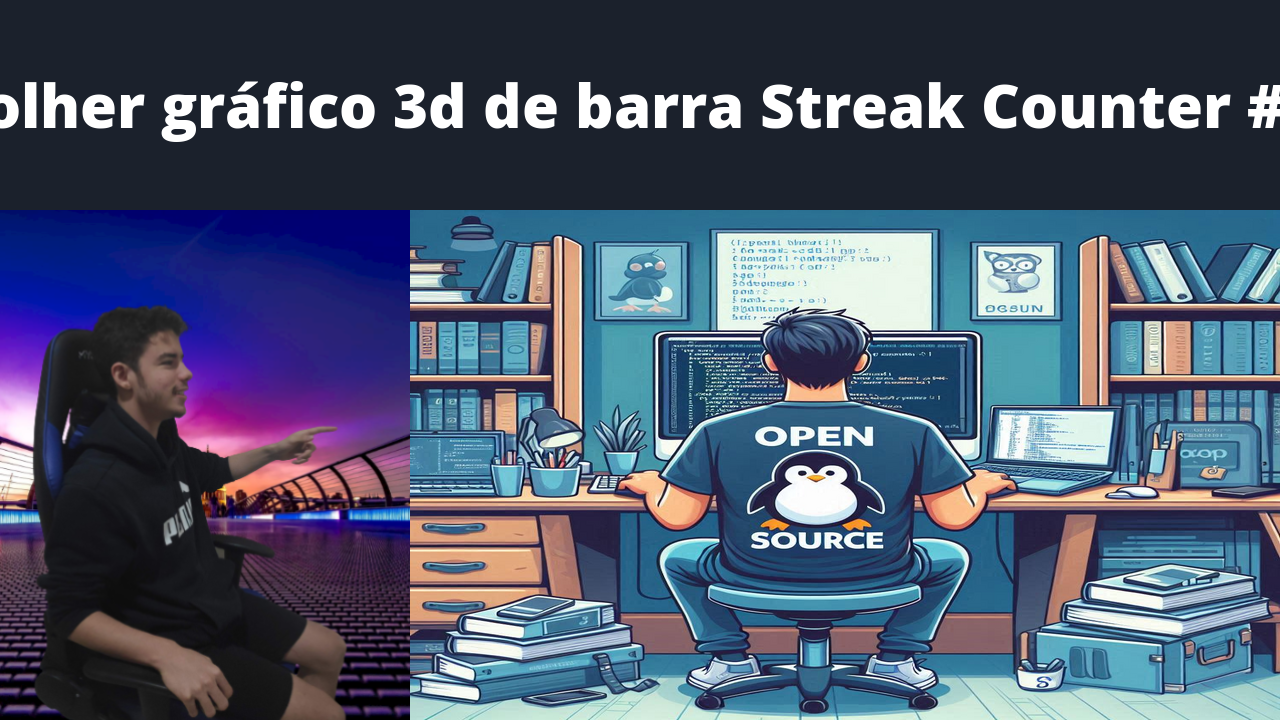
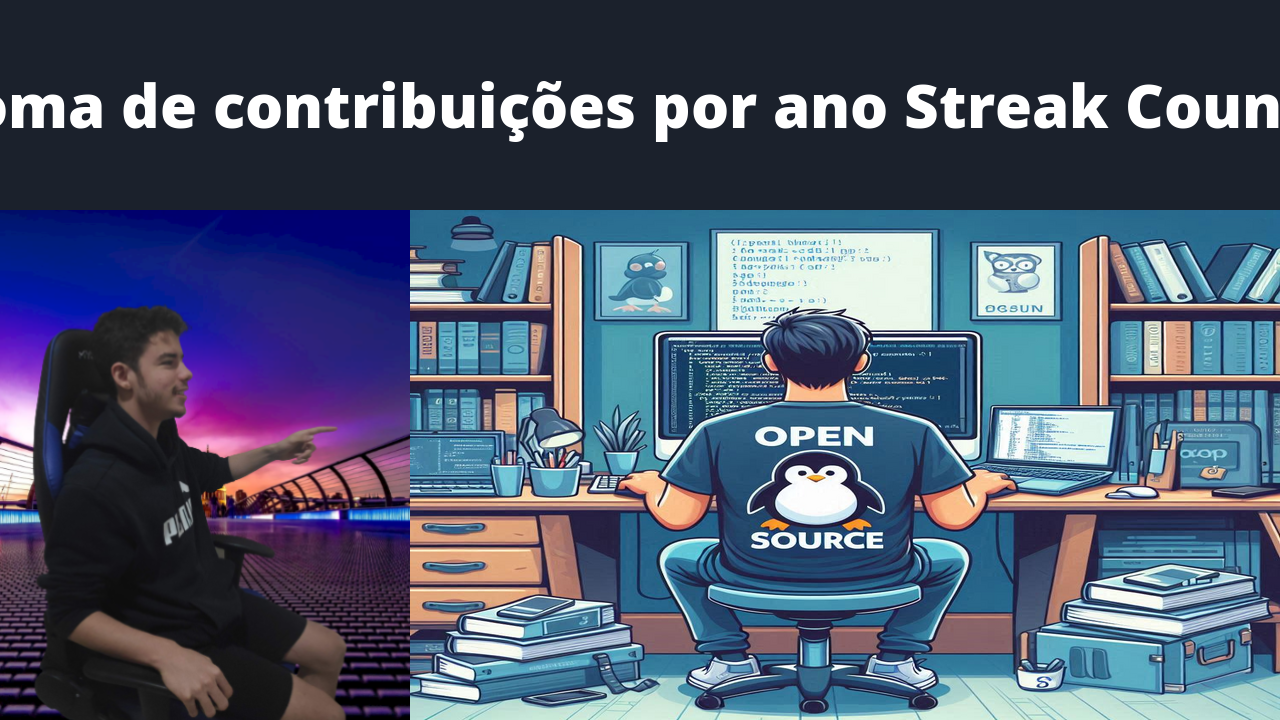
chore: add title refactor: remove verbosity

Changed region(s): [[0.0, 0.0917, 1.0, 0.2139]]

diff --git a/out/titles/Open Source.md b/out/titles/Open Source.md
@@ -112,8 +112,8 @@
 [video](https://youtu.be/QyUY_dS4Z4E)
 ## Criar arquivo informações de commit reminder actions #57
 [video](https://youtu.be/IHcmdDBSGZk)
-
-
+## Salvar arquivo no git reminder actions #58
+[video](https://youtu.be/0PfLznJBwAk)
 
 
 
@@ -806,3 +806,5 @@
 [video](https://youtu.be/WnpNzKrCt_g)
 ## Vídeo não encontrado streamLive #404
 [video](https://youtu.be/2Lzic8NMOSc)
+## Bitcoin Acajutla BTCMAP #405
+[video](https://youtu.be/-RcgDFcTcZk)
